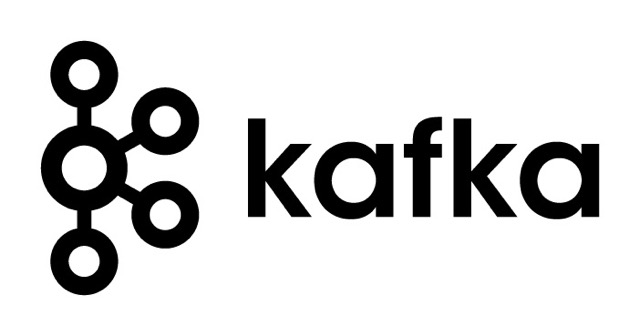
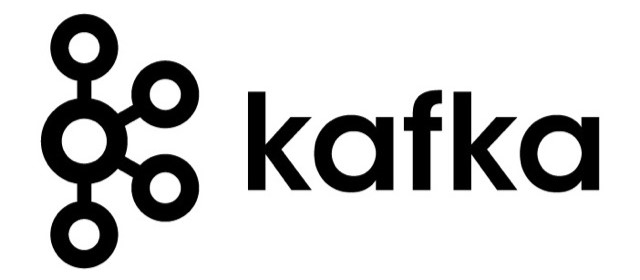
resize some images; add 23-oss-wallos

diff --git a/content/posts/23-oss-wallos.md b/content/posts/23-oss-wallos.md
@@ -1,0 +1,19 @@
+---
+title: "Cool OSS: Wallos"
+date: 2024-10-11T16:26:14+03:00
+tags:
+- cooloss
+---
+
+[Wallos](https://wallosapp.com/) is an app for tracking subscriptions. I have several for 
+things like Netflix and Spotify, so I needed a place to track them and Wallos works great.
+It's very easy to self-host since they provide docker container and I had it up and running
+in a few minutes. There is a bunch of settings you can configure to track various stuff like currencies
+and payment methods. Very useful feature is the ability to configure notifications
+about the upcoming due date or future cancellation date.
+
+
+<!--more-->
+
+---
+This post is part of my [#Cool Open-Source Software]({{< ref "/tags/cooloss/" >}}) series.

diff --git a/content/posts/18-cdd.md b/content/posts/18-cdd.md
@@ -1,7 +1,7 @@
 ---
 title: "What is Contract-Driven Development"
 date: 2023-02-28T09:42:17+02:00
-cover: /posts/images/18-cdd-cover.jpeg
+cover: /posts/images/18-cdd-cover.jpg
 tags:
 - Contract-Driven
 - Methodology
